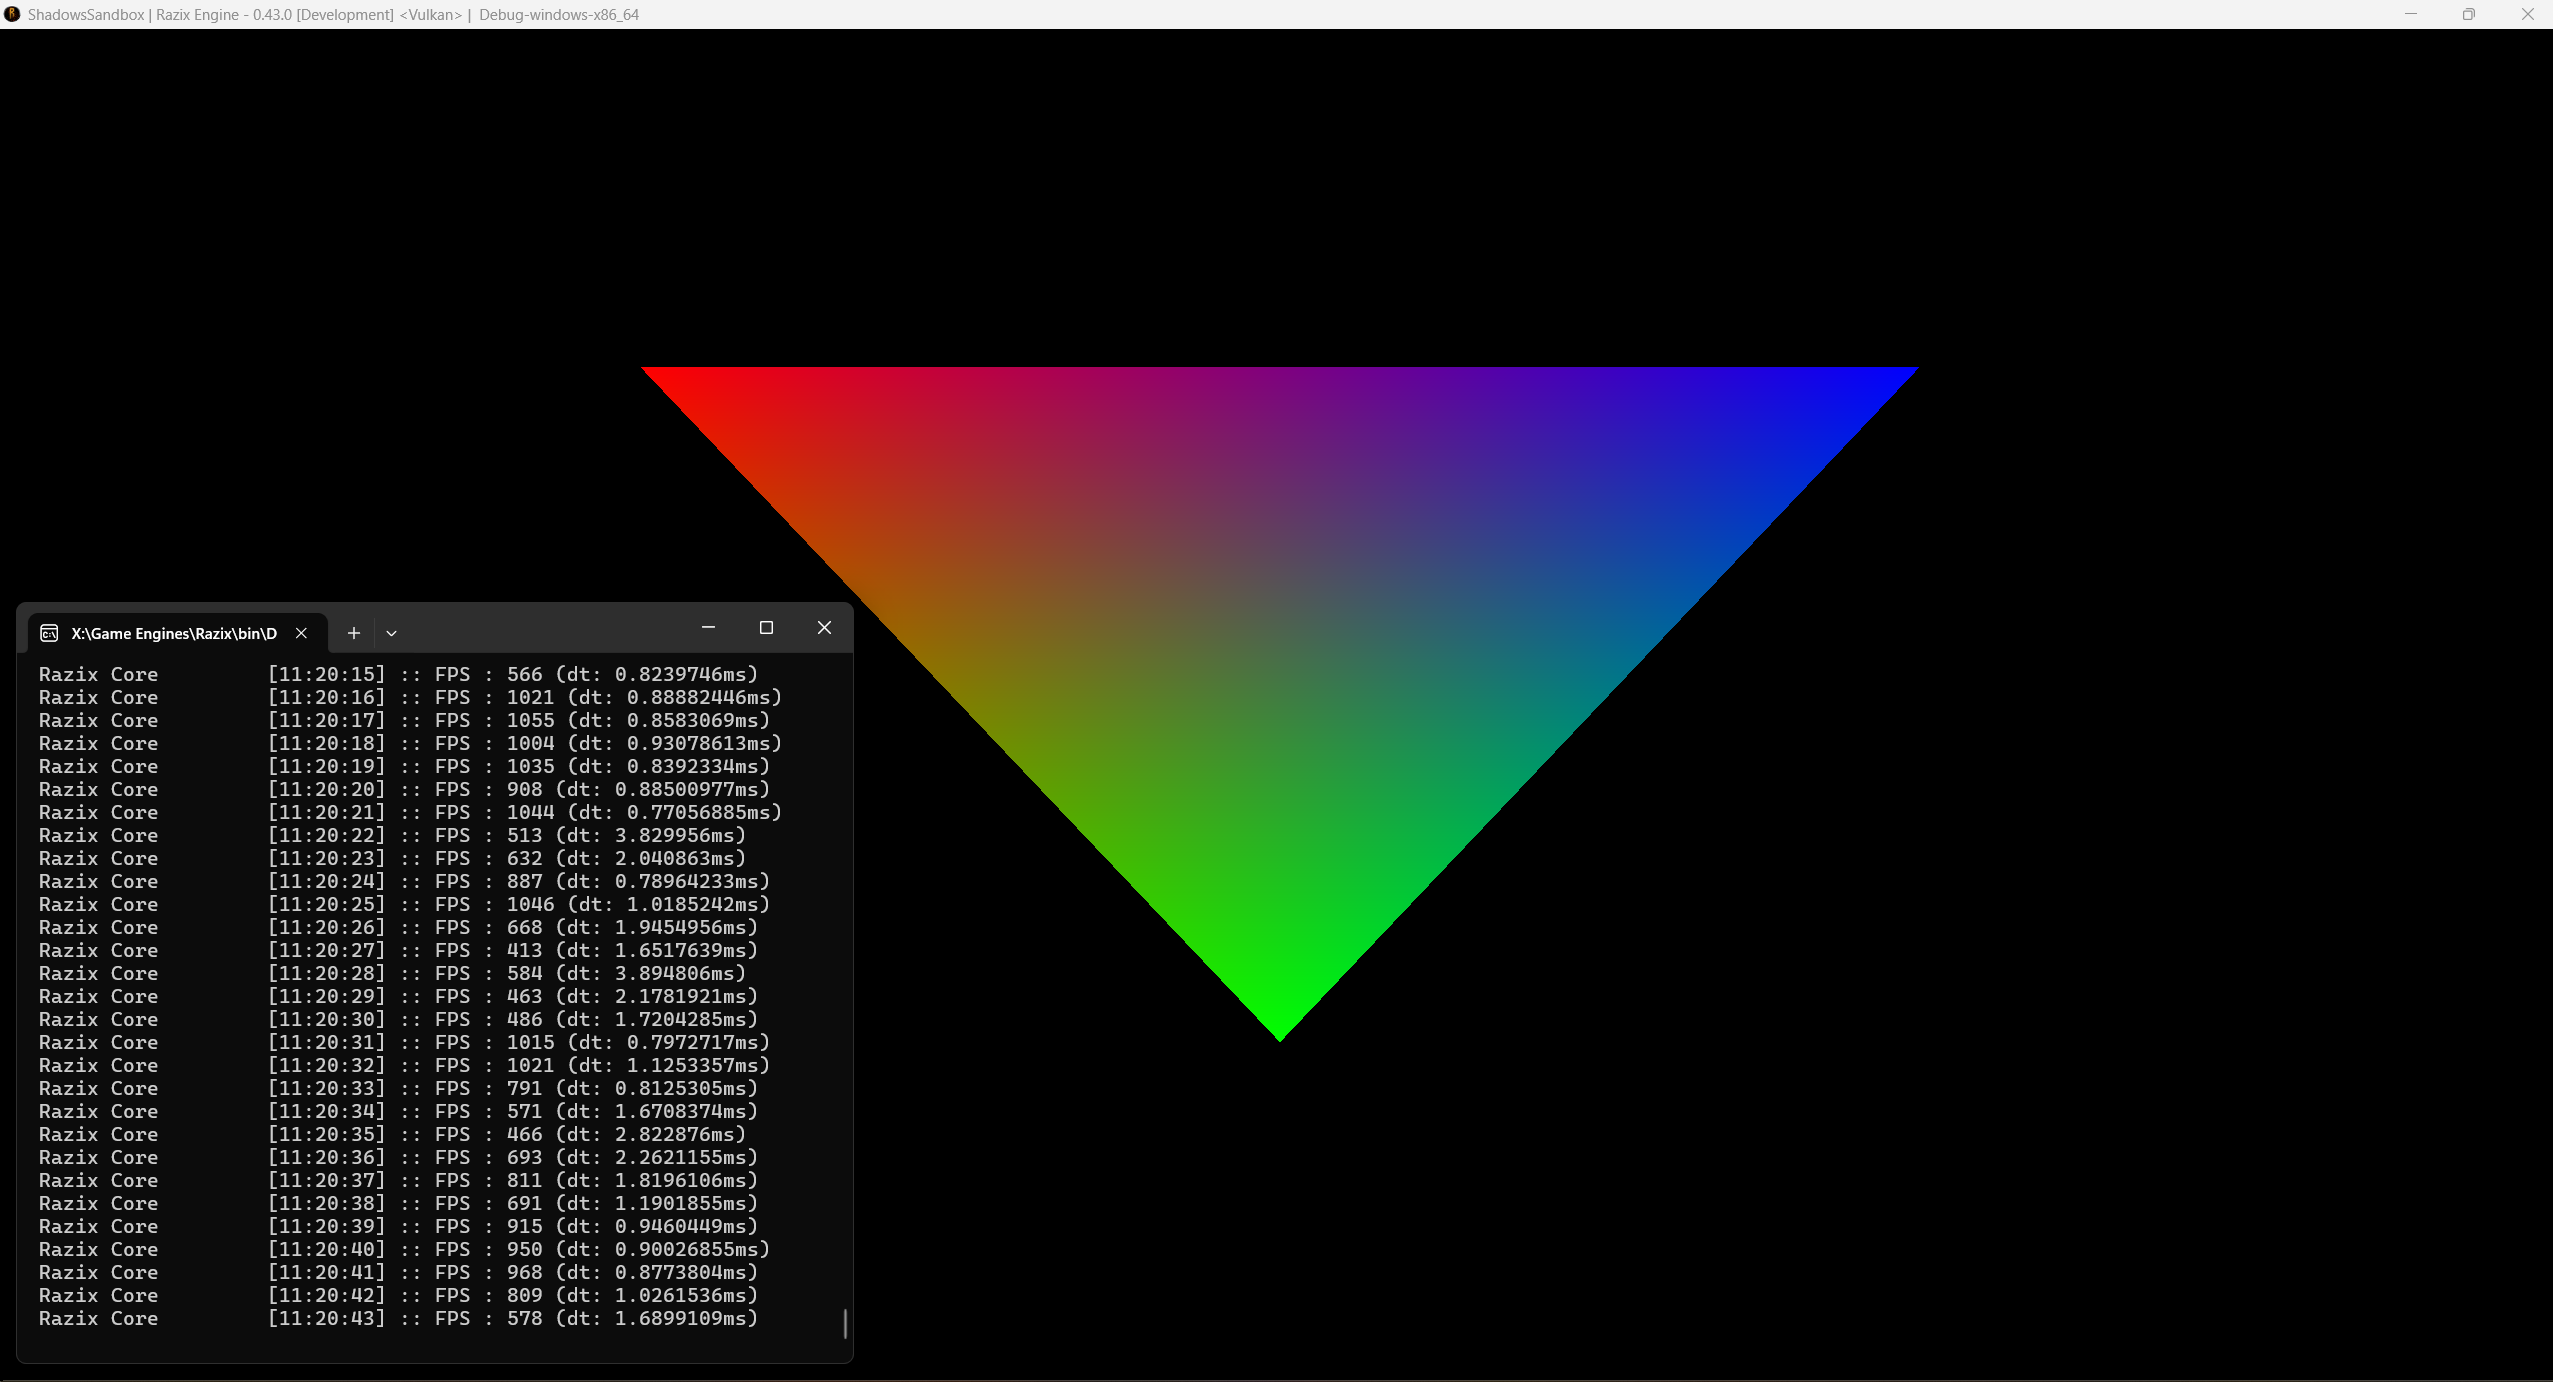
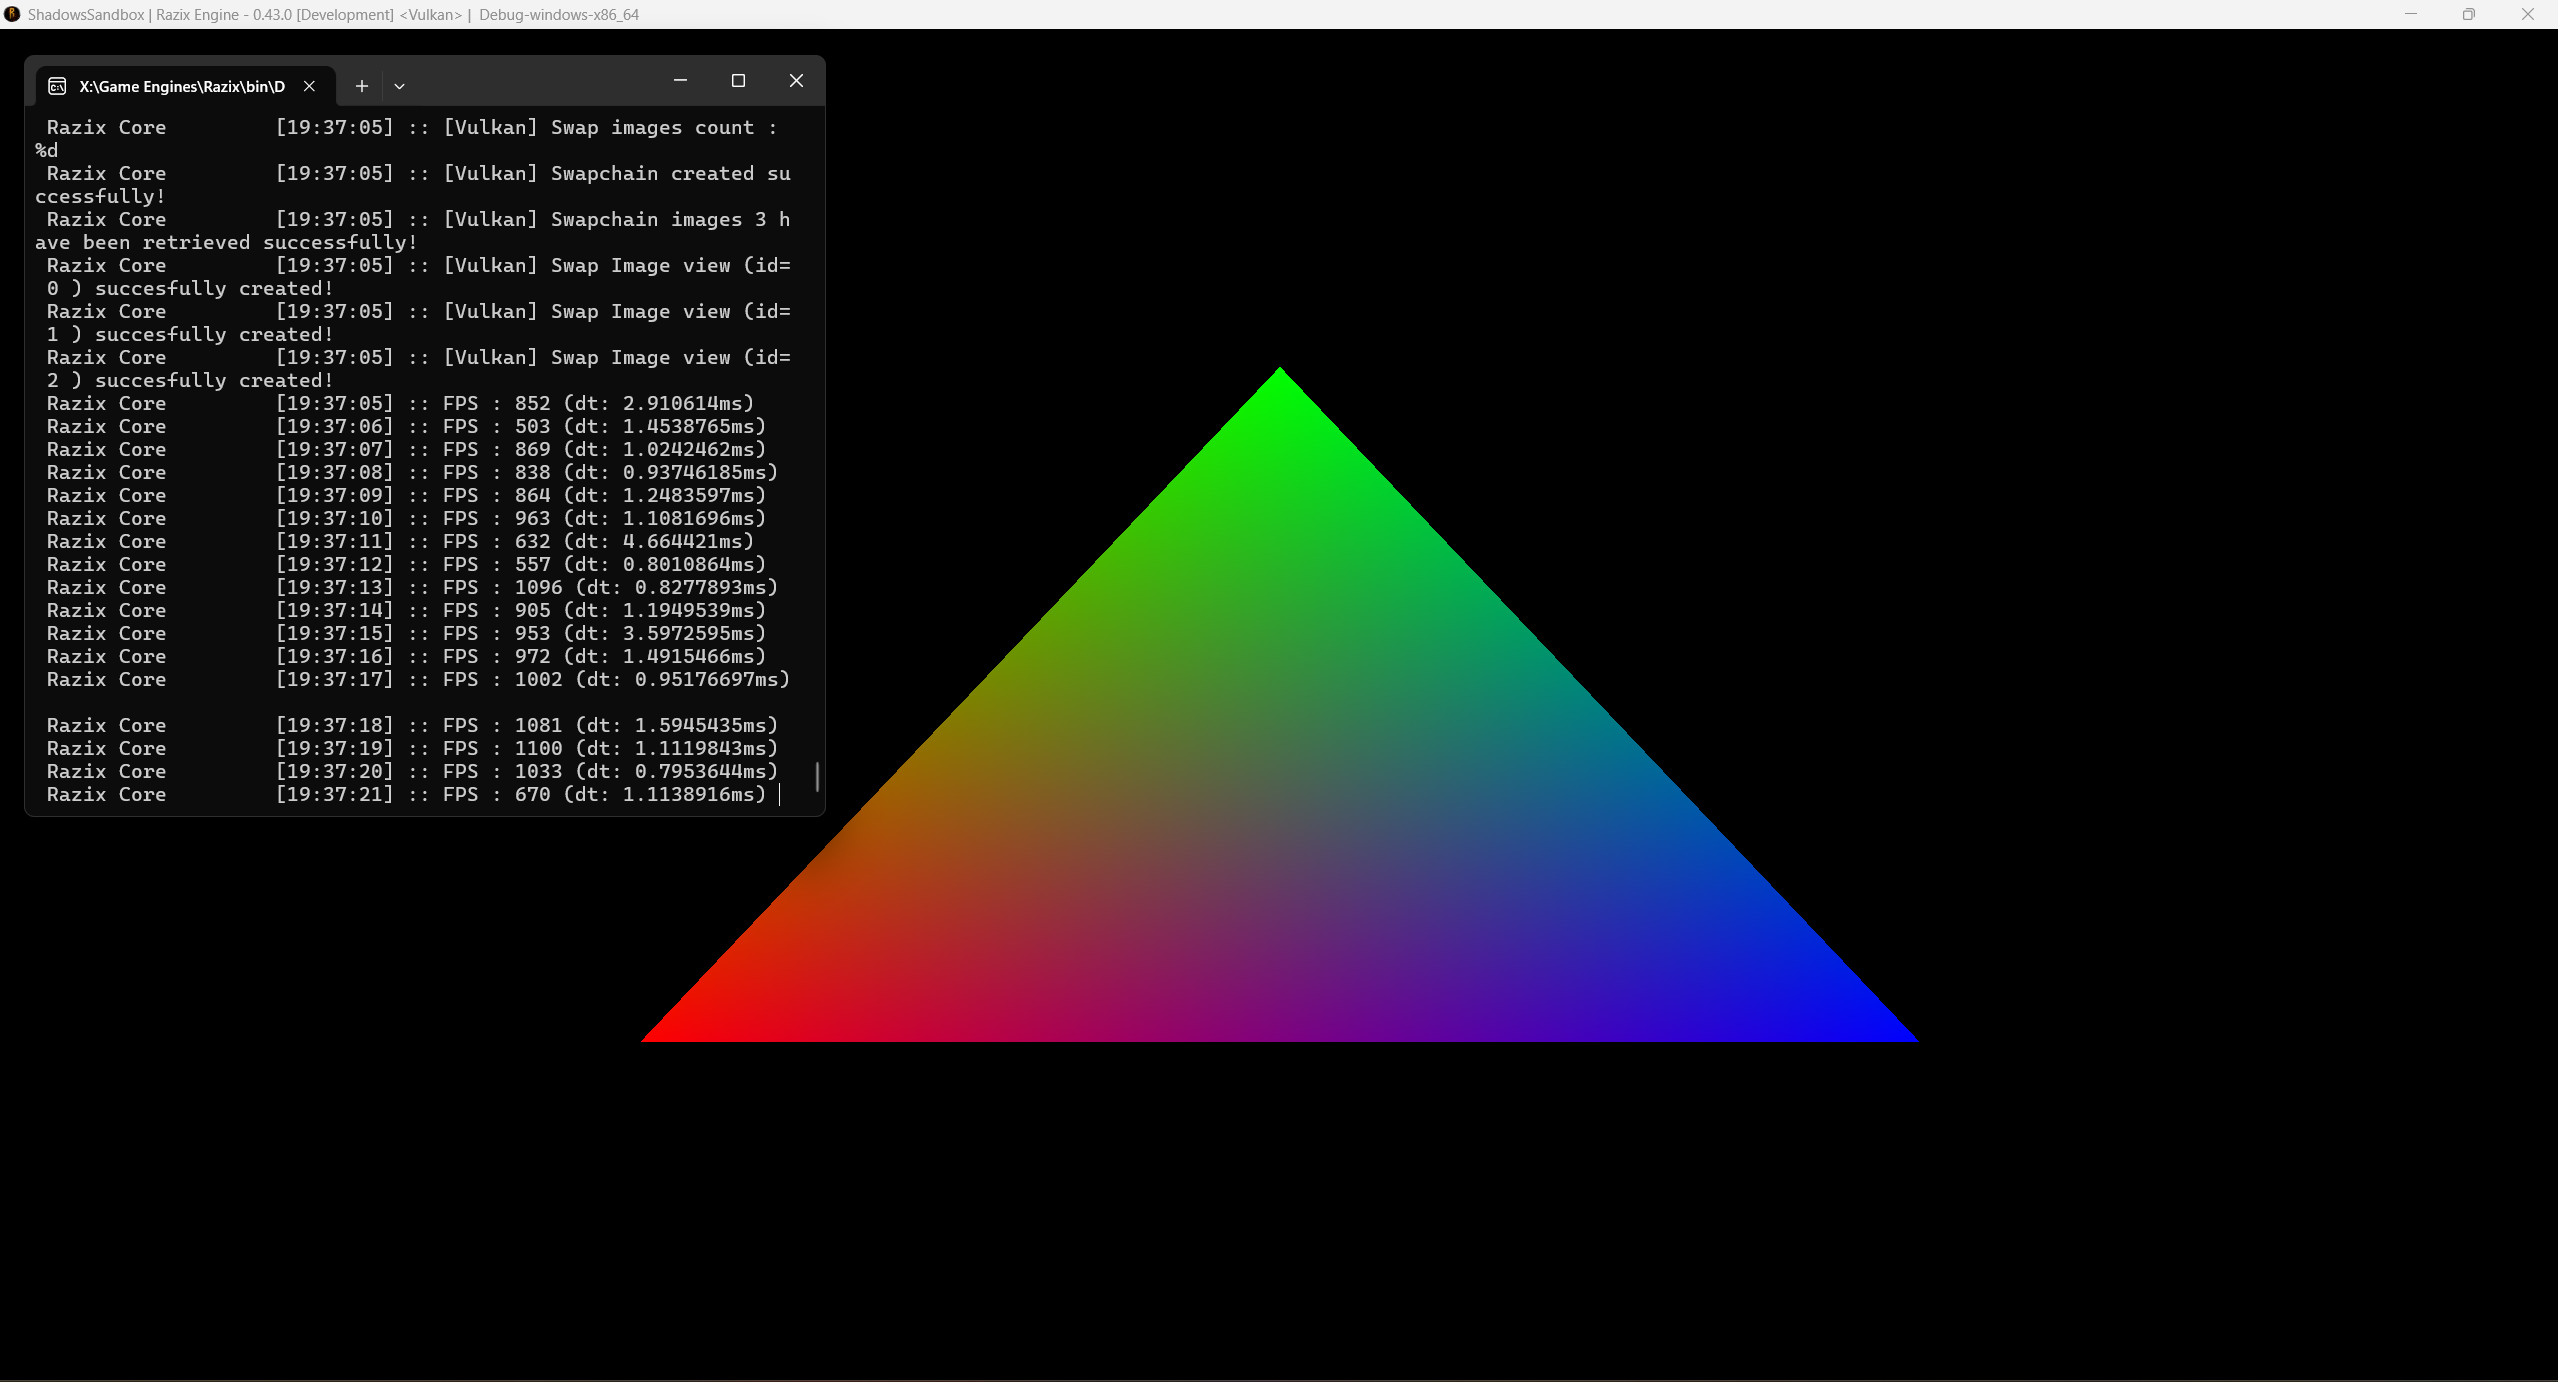
vk viewport now matches DX12;

Changed region(s): [[0.0, 0.0, 0.7427, 0.9645]]

diff --git a/Engine/src/Razix/Platform/API/Vulkan/VKSwapchain.cpp b/Engine/src/Razix/Platform/API/Vulkan/VKSwapchain.cpp
@@ -162,7 +162,7 @@ namespace Razix {
             //            if (format.format == VK_FORMAT_R8G8B8A8_UNORM && format.colorSpace == VK_COLOR_SPACE_SRGB_NONLINEAR_KHR) {
 
             for (const auto& format: m_SwapSurfaceProperties.formats) {
-                if (format.format == VK_FORMAT_B8G8R8A8_UNORM && format.colorSpace == VK_COLOR_SPACE_SRGB_NONLINEAR_KHR) {
+                if (format.format == VK_FORMAT_B8G8R8A8_UNORM /*VK_FORMAT_B8G8R8A8_SRGB*/ && format.colorSpace == VK_COLOR_SPACE_SRGB_NONLINEAR_KHR) {
                     m_ColorFormat = format.format;
                     return format;
                 }

diff --git a/Engine/src/Razix/Platform/API/Vulkan/VKUtilities.cpp b/Engine/src/Razix/Platform/API/Vulkan/VKUtilities.cpp
@@ -201,8 +201,8 @@ namespace Razix {
                         case TextureFormat::BGRA8_UNORM:
                             return VK_FORMAT_B8G8R8A8_UNORM;
                             break;
-                        case TextureFormat::SCREEN:    // Is always sRGB
-                            return VK_FORMAT_B8G8R8A8_SRGB;
+                        case TextureFormat::SCREEN: 
+                            return VK_FORMAT_B8G8R8A8_UNORM;
                             break;
                         case TextureFormat::DEPTH16_UNORM:
                             return VK_FORMAT_D16_UNORM;

diff --git a/Engine/src/Razix/Platform/API/Vulkan/VKRenderContext.cpp b/Engine/src/Razix/Platform/API/Vulkan/VKRenderContext.cpp
@@ -632,9 +632,9 @@ namespace Razix {
 
             VkViewport viewport = {};
             viewport.x          = static_cast<f32>(x);
-            viewport.y          = static_cast<f32>(y);
+            viewport.y          = static_cast<f32>(height) - static_cast<f32>(y);
             viewport.width      = static_cast<f32>(width);
-            viewport.height     = static_cast<f32>(height);
+            viewport.height     = -static_cast<f32>(height);    // (-) to match with DX12
             viewport.minDepth   = 0.0f;
             viewport.maxDepth   = 1.0f;
 

diff --git a/Engine/src/Razix/Platform/API/Vulkan/VKDevice.h b/Engine/src/Razix/Platform/API/Vulkan/VKDevice.h
@@ -16,6 +16,7 @@
 static std::vector<cstr> deviceExtensions = {
     VK_KHR_SWAPCHAIN_EXTENSION_NAME,
     VK_KHR_dynamic_rendering_NAME,
+    VK_KHR_MAINTENANCE1_EXTENSION_NAME,
     VK_KHR_MAINTENANCE2_EXTENSION_NAME,
     VK_KHR_MULTIVIEW_EXTENSION_NAME,
     VK_KHR_DEPTH_STENCIL_RESOLVE_EXTENSION_NAME,
